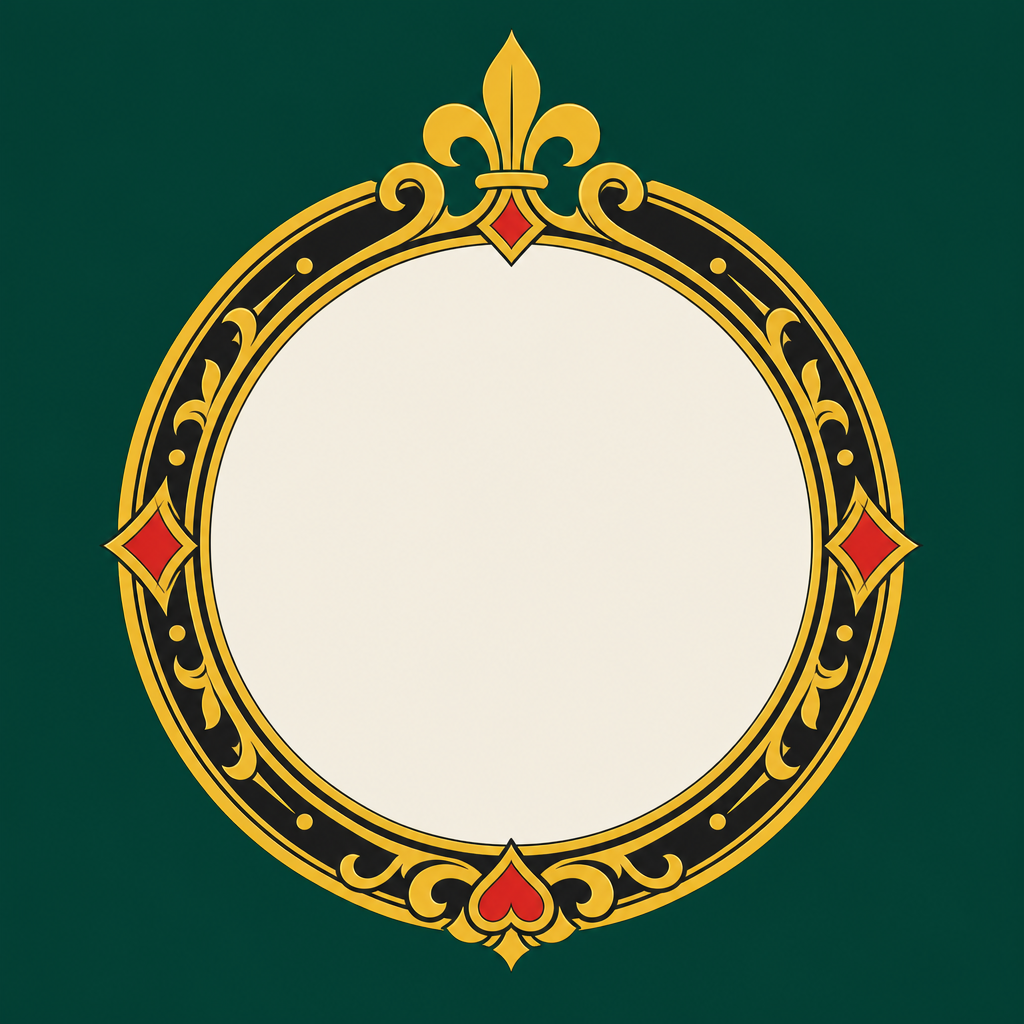
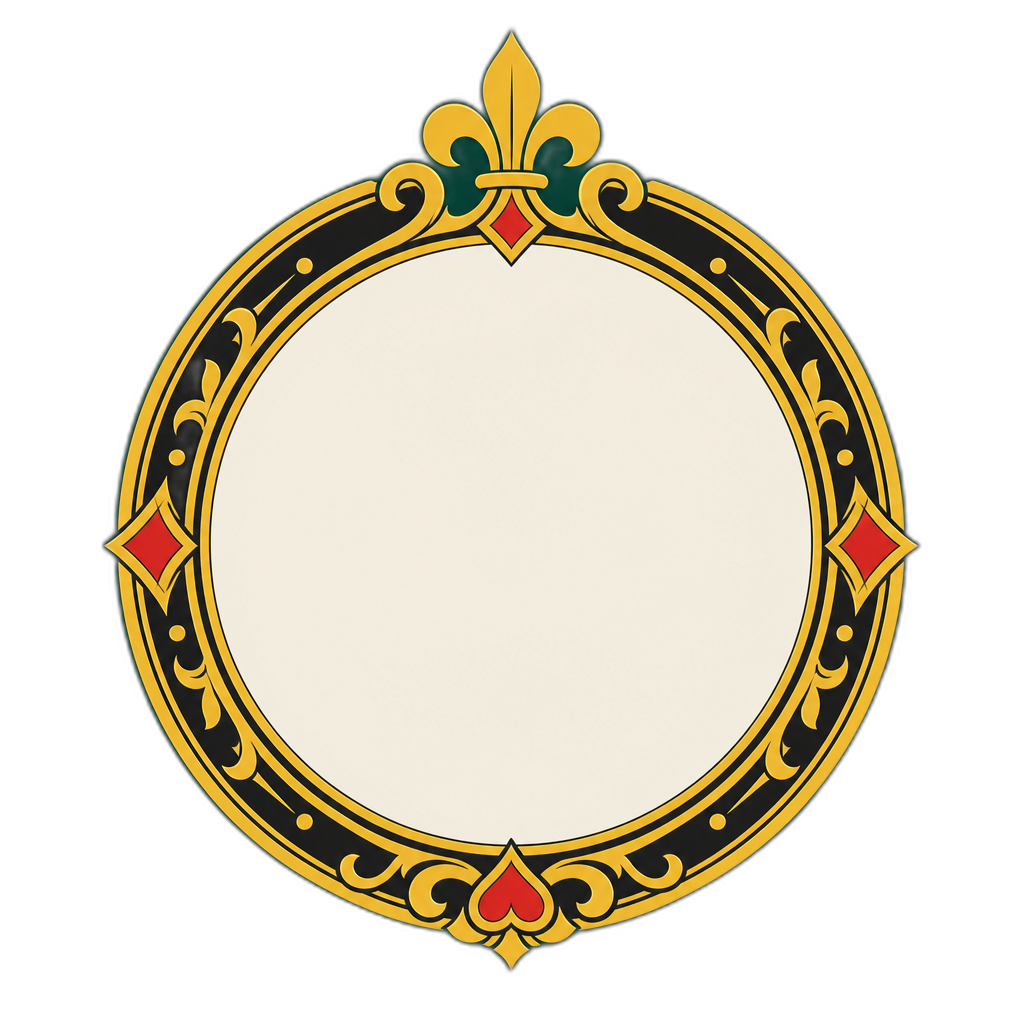
fix(ui): seamless felt tile, transparent seat ring, red Pass under the pool
- Swap the felt to the seamless tile (repeat) so there's no center-bright
  seam across the table.
- rembg the seat-frame background to transparent so the ring no longer
  shows a square behind each avatar.
- Move Play/Pass under the center pool; Pass is now bright red with Play to
  its left.

diff --git a/app/game-local.tsx b/app/game-local.tsx
@@ -56,7 +56,7 @@ import {
 } from '../lib/pusoy/localGame';
 import type { BotLevel, Card, FiveCardType, PlayedCombo } from '../lib/pusoy/types';
 
-const FELT_IMG = require('../assets/art/felt.png');
+const FELT_IMG = require('../assets/art/felt-tile.png');
 const BOT_AVATAR_IMG = require('../assets/art/bot-avatar.png');
 const TABLE_INLAY_IMG = require('../assets/art/table-inlay.png');
 const TURN_GLOW_IMG = require('../assets/art/turn-glow.png');
@@ -141,7 +141,7 @@ function TableBackground({ children }: { children: ReactNode }) {
         source={FELT_IMG}
         style={styles.tableTexture}
         imageStyle={styles.tableTextureImage}
-        resizeMode="cover"
+        resizeMode="repeat"
       >
         <View style={styles.tableVignetteOuter} pointerEvents="none" />
         <View style={styles.tableVignetteMid} pointerEvents="none" />
@@ -523,13 +523,35 @@ export default function LocalGameScreen() {
             </Text>
           </View>
         )}
+        {/* Play / Pass sit directly under the center pool. Pass is the bright
+            red action; Play is to its left. */}
+        <View style={styles.centerActions}>
+          <Pressable
+            style={[styles.btn, (!isMyTurn || !selLegal) && styles.btnDisabled]}
+            disabled={!isMyTurn || !selLegal}
+            onPress={onPlay}
+          >
+            <Text style={styles.btnText}>Play</Text>
+          </Pressable>
+          <Pressable
+            style={[
+              styles.btn,
+              styles.btnPass,
+              (!isMyTurn || lead === null) && styles.btnDisabled,
+            ]}
+            disabled={!isMyTurn || lead === null}
+            onPress={onPass}
+          >
+            <Text style={styles.btnText}>Pass</Text>
+          </Pressable>
+        </View>
         {autoPassing && (
           <Text style={styles.autoPass}>No playable hand, passing…</Text>
         )}
         {error && <Text style={styles.error}>{error}</Text>}
       </View>
 
-      {/* Bottom: hand + actions. Hand in the lower-center; Play/Pass centered directly under it. */}
+      {/* Bottom: hand + toolbar. Play/Pass live under the center pool above. */}
       <View style={[styles.bottom, isMyTurn && styles.bottomActive]}>
         {/* Soft gold glow behind the hand while it is the player's turn. First
             child so it paints behind the toolbar/hand/actions; contain so it
@@ -576,29 +598,6 @@ export default function LocalGameScreen() {
           onTap={toggleCard}
           onReorder={handleReorder}
         />
-
-        <View style={styles.actionsRow}>
-          <View style={styles.actionsInner}>
-            <Pressable
-              style={[styles.btn, (!isMyTurn || !selLegal) && styles.btnDisabled]}
-              disabled={!isMyTurn || !selLegal}
-              onPress={onPlay}
-            >
-              <Text style={styles.btnText}>Play</Text>
-            </Pressable>
-            <Pressable
-              style={[
-                styles.btn,
-                styles.btnPass,
-                (!isMyTurn || lead === null) && styles.btnDisabled,
-              ]}
-              disabled={!isMyTurn || lead === null}
-              onPress={onPass}
-            >
-              <Text style={styles.btnText}>Pass</Text>
-            </Pressable>
-          </View>
-        </View>
       </View>
     </TableBackground>
   );
@@ -742,10 +741,10 @@ const styles = StyleSheet.create({
     opacity: 0.22,
     pointerEvents: 'none',
   },
-  // Kept faint on purpose: this is a texture hint layered on the color
-  // base, not the surface itself, so upscaling the single fixed-size photo
-  // to a wide desktop viewport never reads as pixelated.
-  tableTextureImage: { opacity: 0.3 },
+  // Seamless felt tile repeated across the whole surface, so there is no
+  // single-image seam or center-bright band at any viewport. Kept semi-faint
+  // over the solid felt color base so the weave reads as texture, not noise.
+  tableTextureImage: { opacity: 0.55 },
   // Three concentric low-alpha frames stand in for a radial gradient (no
   // gradient lib in this project); alpha rises toward the outer band so the
   // edges darken gradually. The alpha steps stay under ~0.06 apart and the
@@ -896,13 +895,21 @@ const styles = StyleSheet.create({
     borderTopColor: withAlpha(colors.white, 0.1),
   },
   actionsInner: { flexDirection: 'row', gap: spacing.md - 2 },
+  // Play / Pass under the center pool.
+  centerActions: {
+    flexDirection: 'row',
+    justifyContent: 'center',
+    gap: spacing.md,
+    marginTop: spacing.md,
+  },
   btn: {
     backgroundColor: colors.feltLight,
     paddingVertical: spacing.sm + 4,
     paddingHorizontal: spacing.xxl,
     borderRadius: radii.md,
   },
-  btnPass: { backgroundColor: colors.neutral },
+  // Pass is the bright-red action, deliberately loud so it reads at a glance.
+  btnPass: { backgroundColor: '#e53935' },
   btnDisabled: { opacity: 0.4 },
   btnText: { color: colors.textOnFelt, fontWeight: '700', fontSize: 16 },
   btnSmall: {
